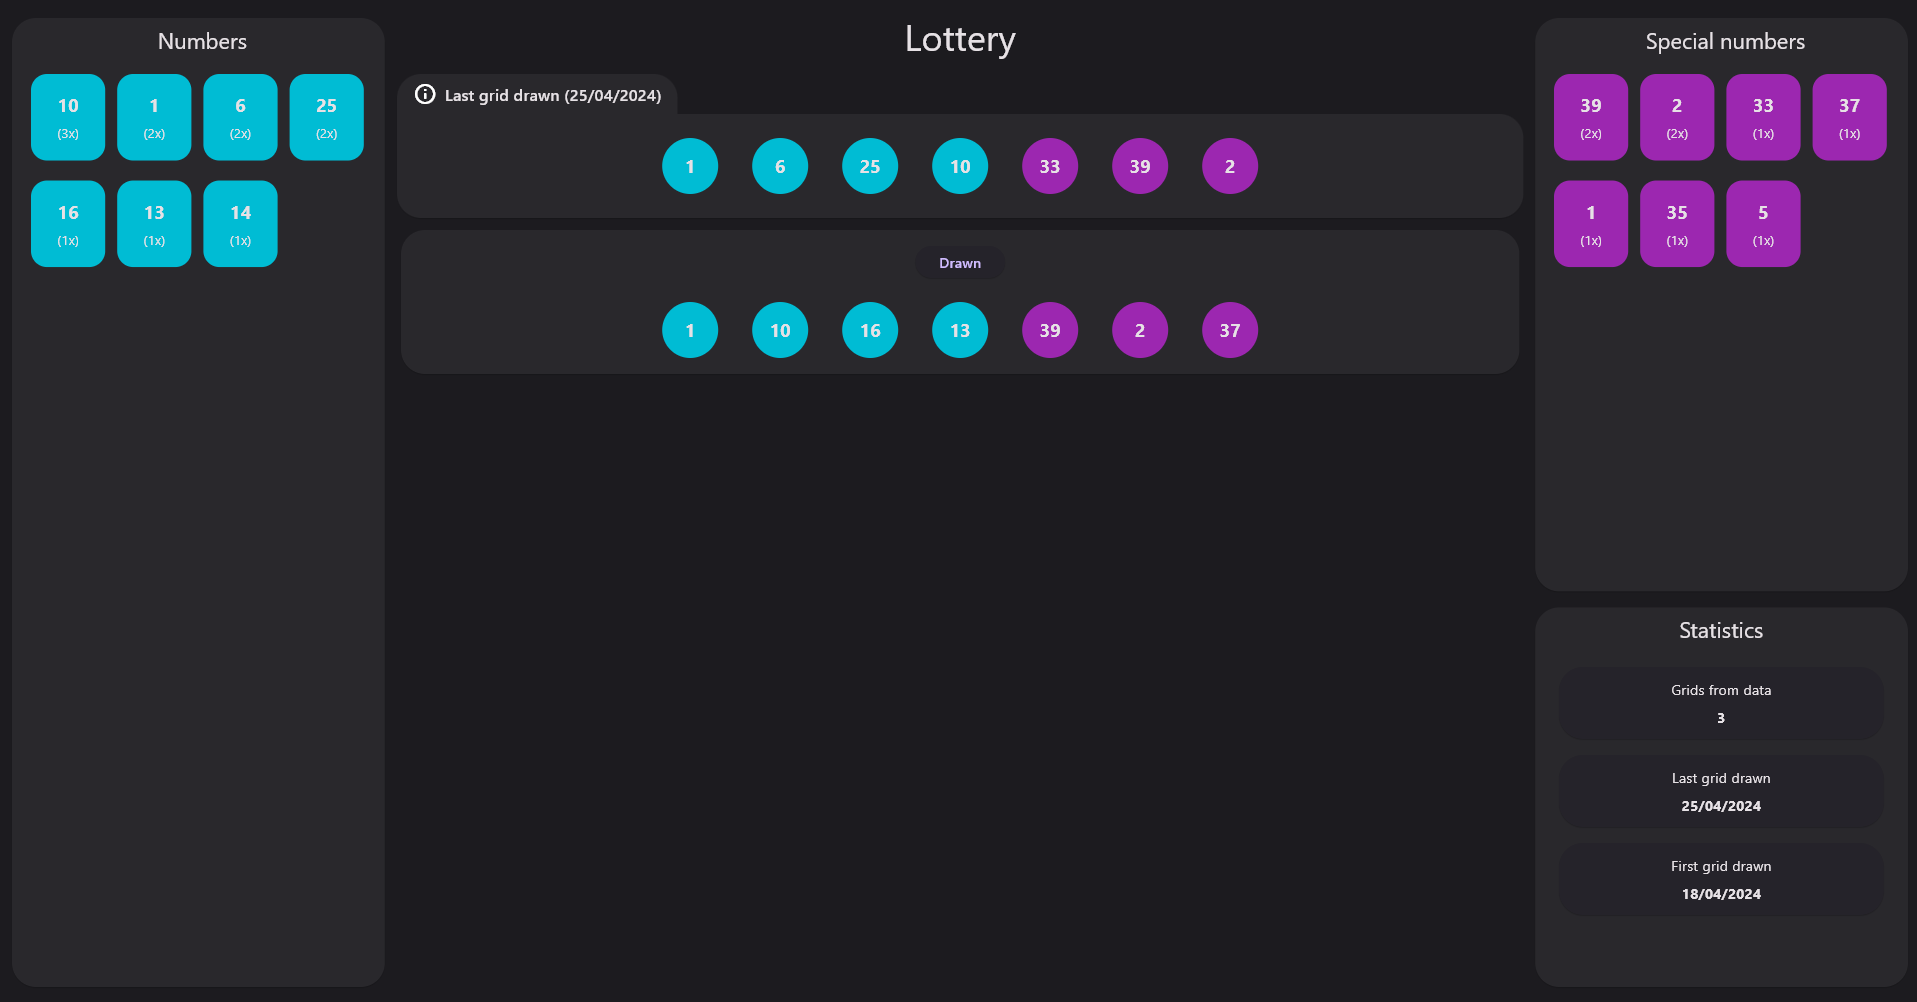
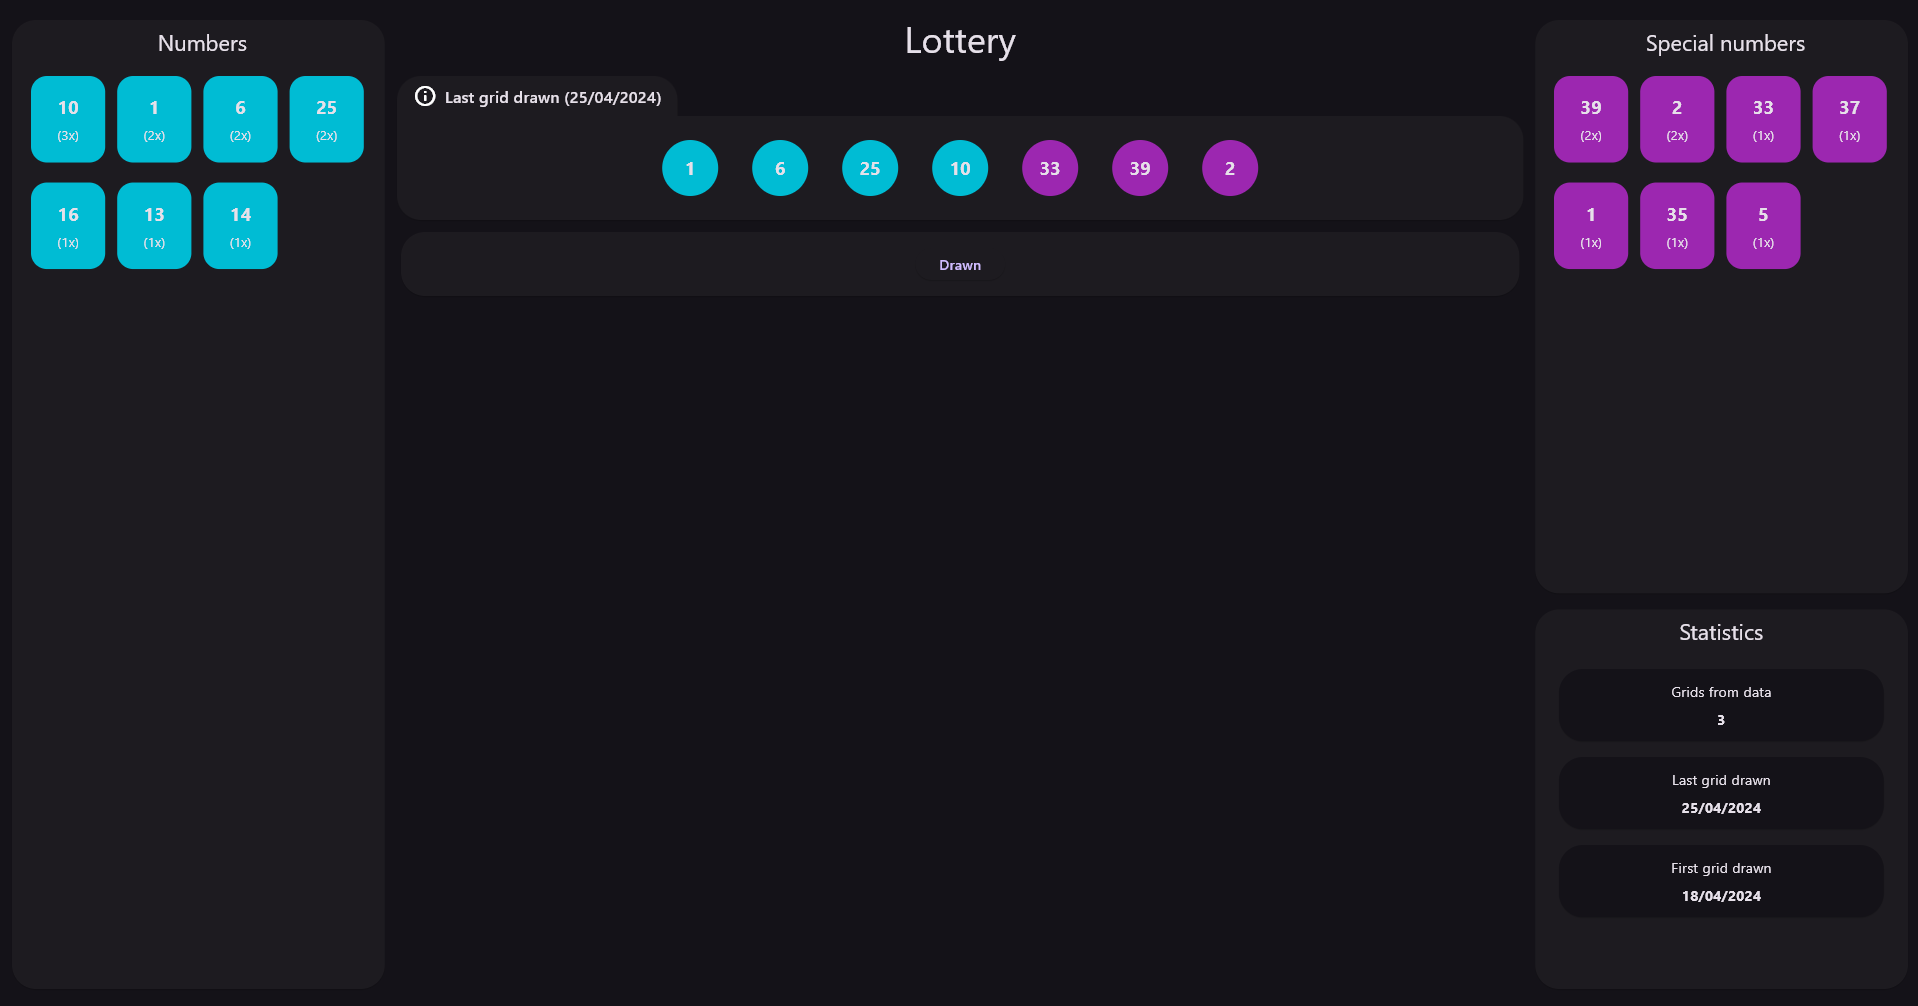
fix

diff --git a/lib/src/view/widgets/lottery_output.dart b/lib/src/view/widgets/lottery_output.dart
@@ -54,7 +54,7 @@ class LotteryOutputs extends StatelessWidget {
       constraints: decoration.constraints,
       width: decoration.width ?? double.infinity,
       child: Card(
-        color: Theme.of(context).cardTheme.color ?? Theme.of(context).cardColor,
+        color: Theme.of(context).cardTheme.color,
         shape: Theme.of(context).cardTheme.shape ??
             RoundedRectangleBorder(
               borderRadius: BorderRadius.circular(24.0),
@@ -78,7 +78,7 @@ class LotteryOutputs extends StatelessWidget {
                     controller: scrollController,
                     thumbColor: Theme.of(context)
                         .colorScheme
-                        .onBackground
+                        .onSurface
                         .withOpacity(0.5),
                     radius: const Radius.circular(20),
                     child: Padding(
@@ -163,7 +163,7 @@ class _OutputsWrap extends StatelessWidget {
                               '(${value}x)',
                               style: TextStyle(
                                 color: (numberDecoration.foregroundColor ??
-                                    Theme.of(context).colorScheme.onBackground),
+                                    Theme.of(context).colorScheme.onSurface),
                                 fontSize: 13,
                               ),
                             ),

diff --git a/example/lib/main.dart b/example/lib/main.dart
@@ -24,7 +24,6 @@ class MyApp extends StatelessWidget {
       theme: ThemeData.dark(
         useMaterial3: true,
       ).copyWith(
-        cardColor: Colors.grey.shade900,
         cardTheme: CardTheme(
           shape: RoundedRectangleBorder(
             borderRadius: BorderRadius.circular(24),
@@ -32,7 +31,6 @@ class MyApp extends StatelessWidget {
         ),
       ),
       home: LotteryScreen(
-        cardColor: Colors.grey.shade900,
         numberOutputs: LotteryOutputs(
           outputs: Lottery().numbers,
           title: 'Numbers',

diff --git a/lib/src/view/widgets/lottery_statistics.dart b/lib/src/view/widgets/lottery_statistics.dart
@@ -60,6 +60,7 @@ class _StatisticItem extends StatelessWidget {
   @override
   Widget build(BuildContext context) {
     return Card(
+      color: cardColor ?? Theme.of(context).scaffoldBackgroundColor,
       margin: const EdgeInsets.symmetric(horizontal: 16),
       child: Padding(
         padding: const EdgeInsets.symmetric(
